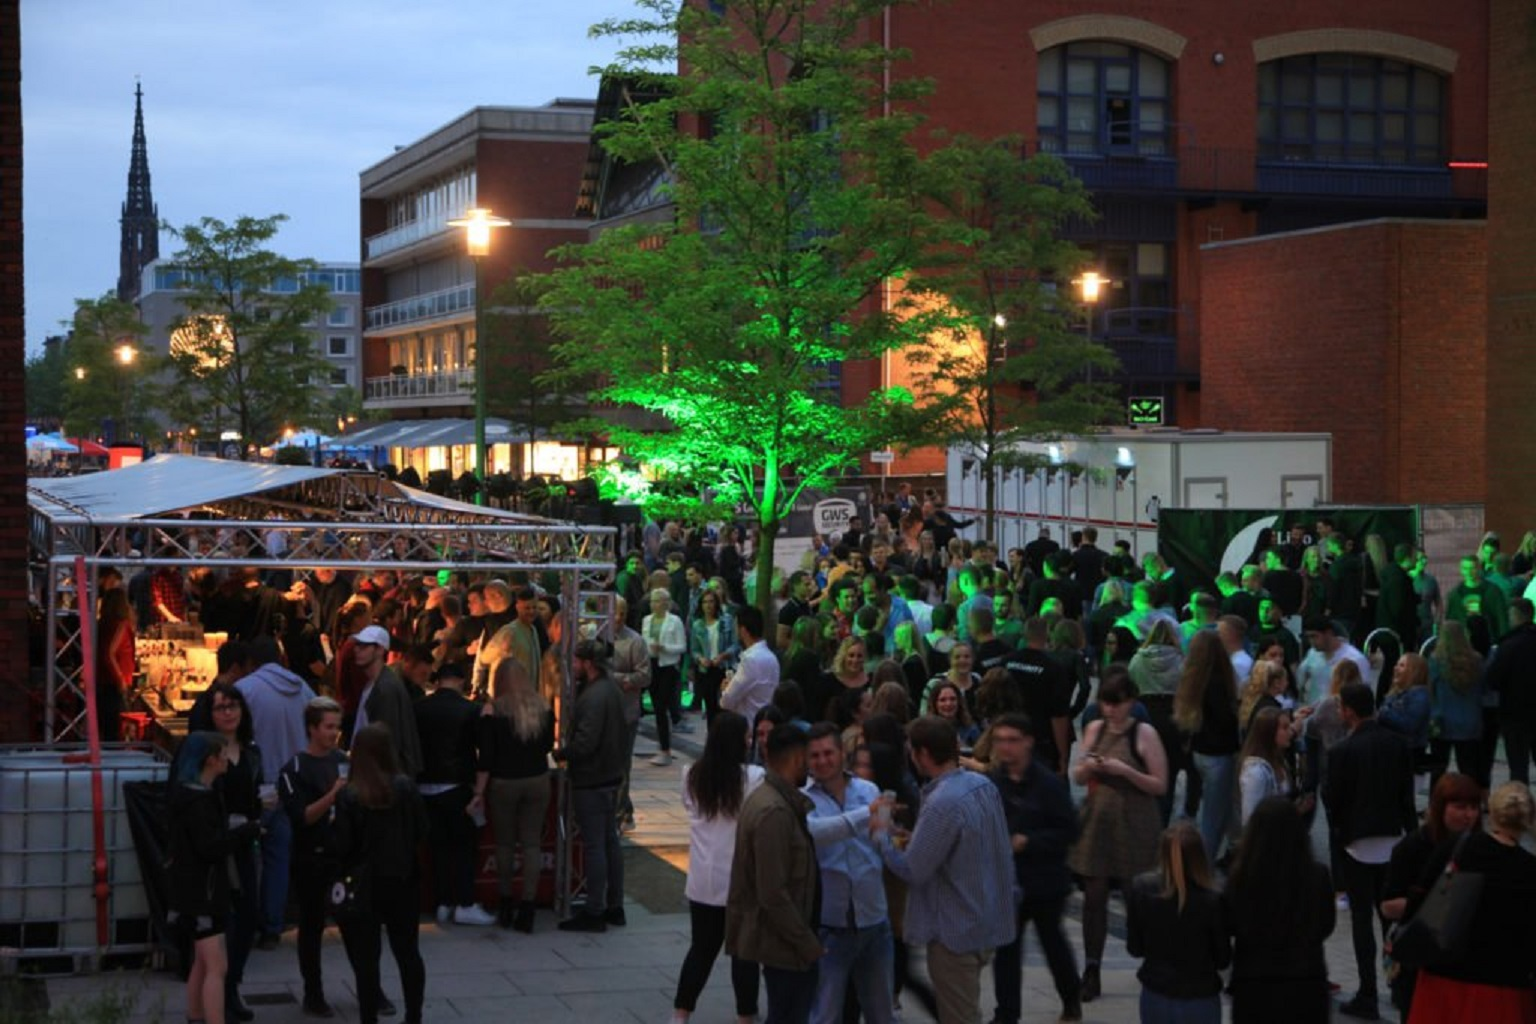
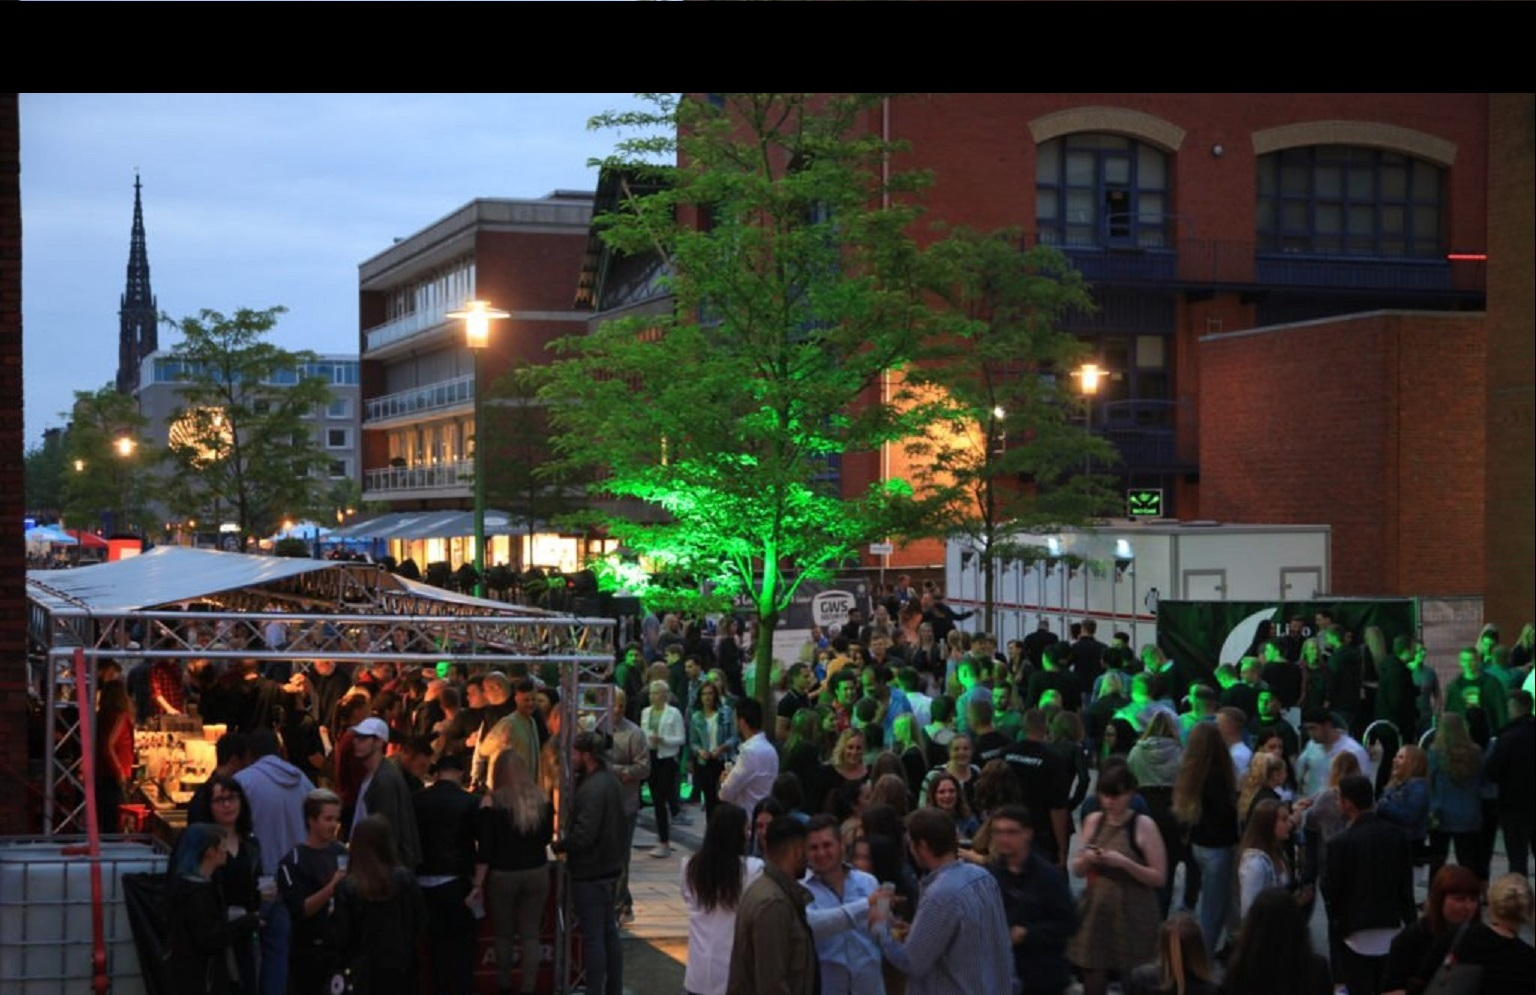
Home

diff --git a/asta/src/main/webapp/resources/home.css b/asta/src/main/webapp/resources/home.css
@@ -3,11 +3,14 @@ body {
 	color: #FFFFFF;
 	front-size: 12px;
 	font-family: Verdana, Arial, Helvetica, sans-serif;
-	background-image: url("../resources/image/h1.png");
-	background-size: cover;
+	background-image: url("../resources/image/h2.png");
+	background-size:1400px;
 	background-position: top center;
+	background-repeat: no-repeat;
 }
 .center{
 	text-align: center;
+	width: 1400px;
+	height: 312px;
 }
 
